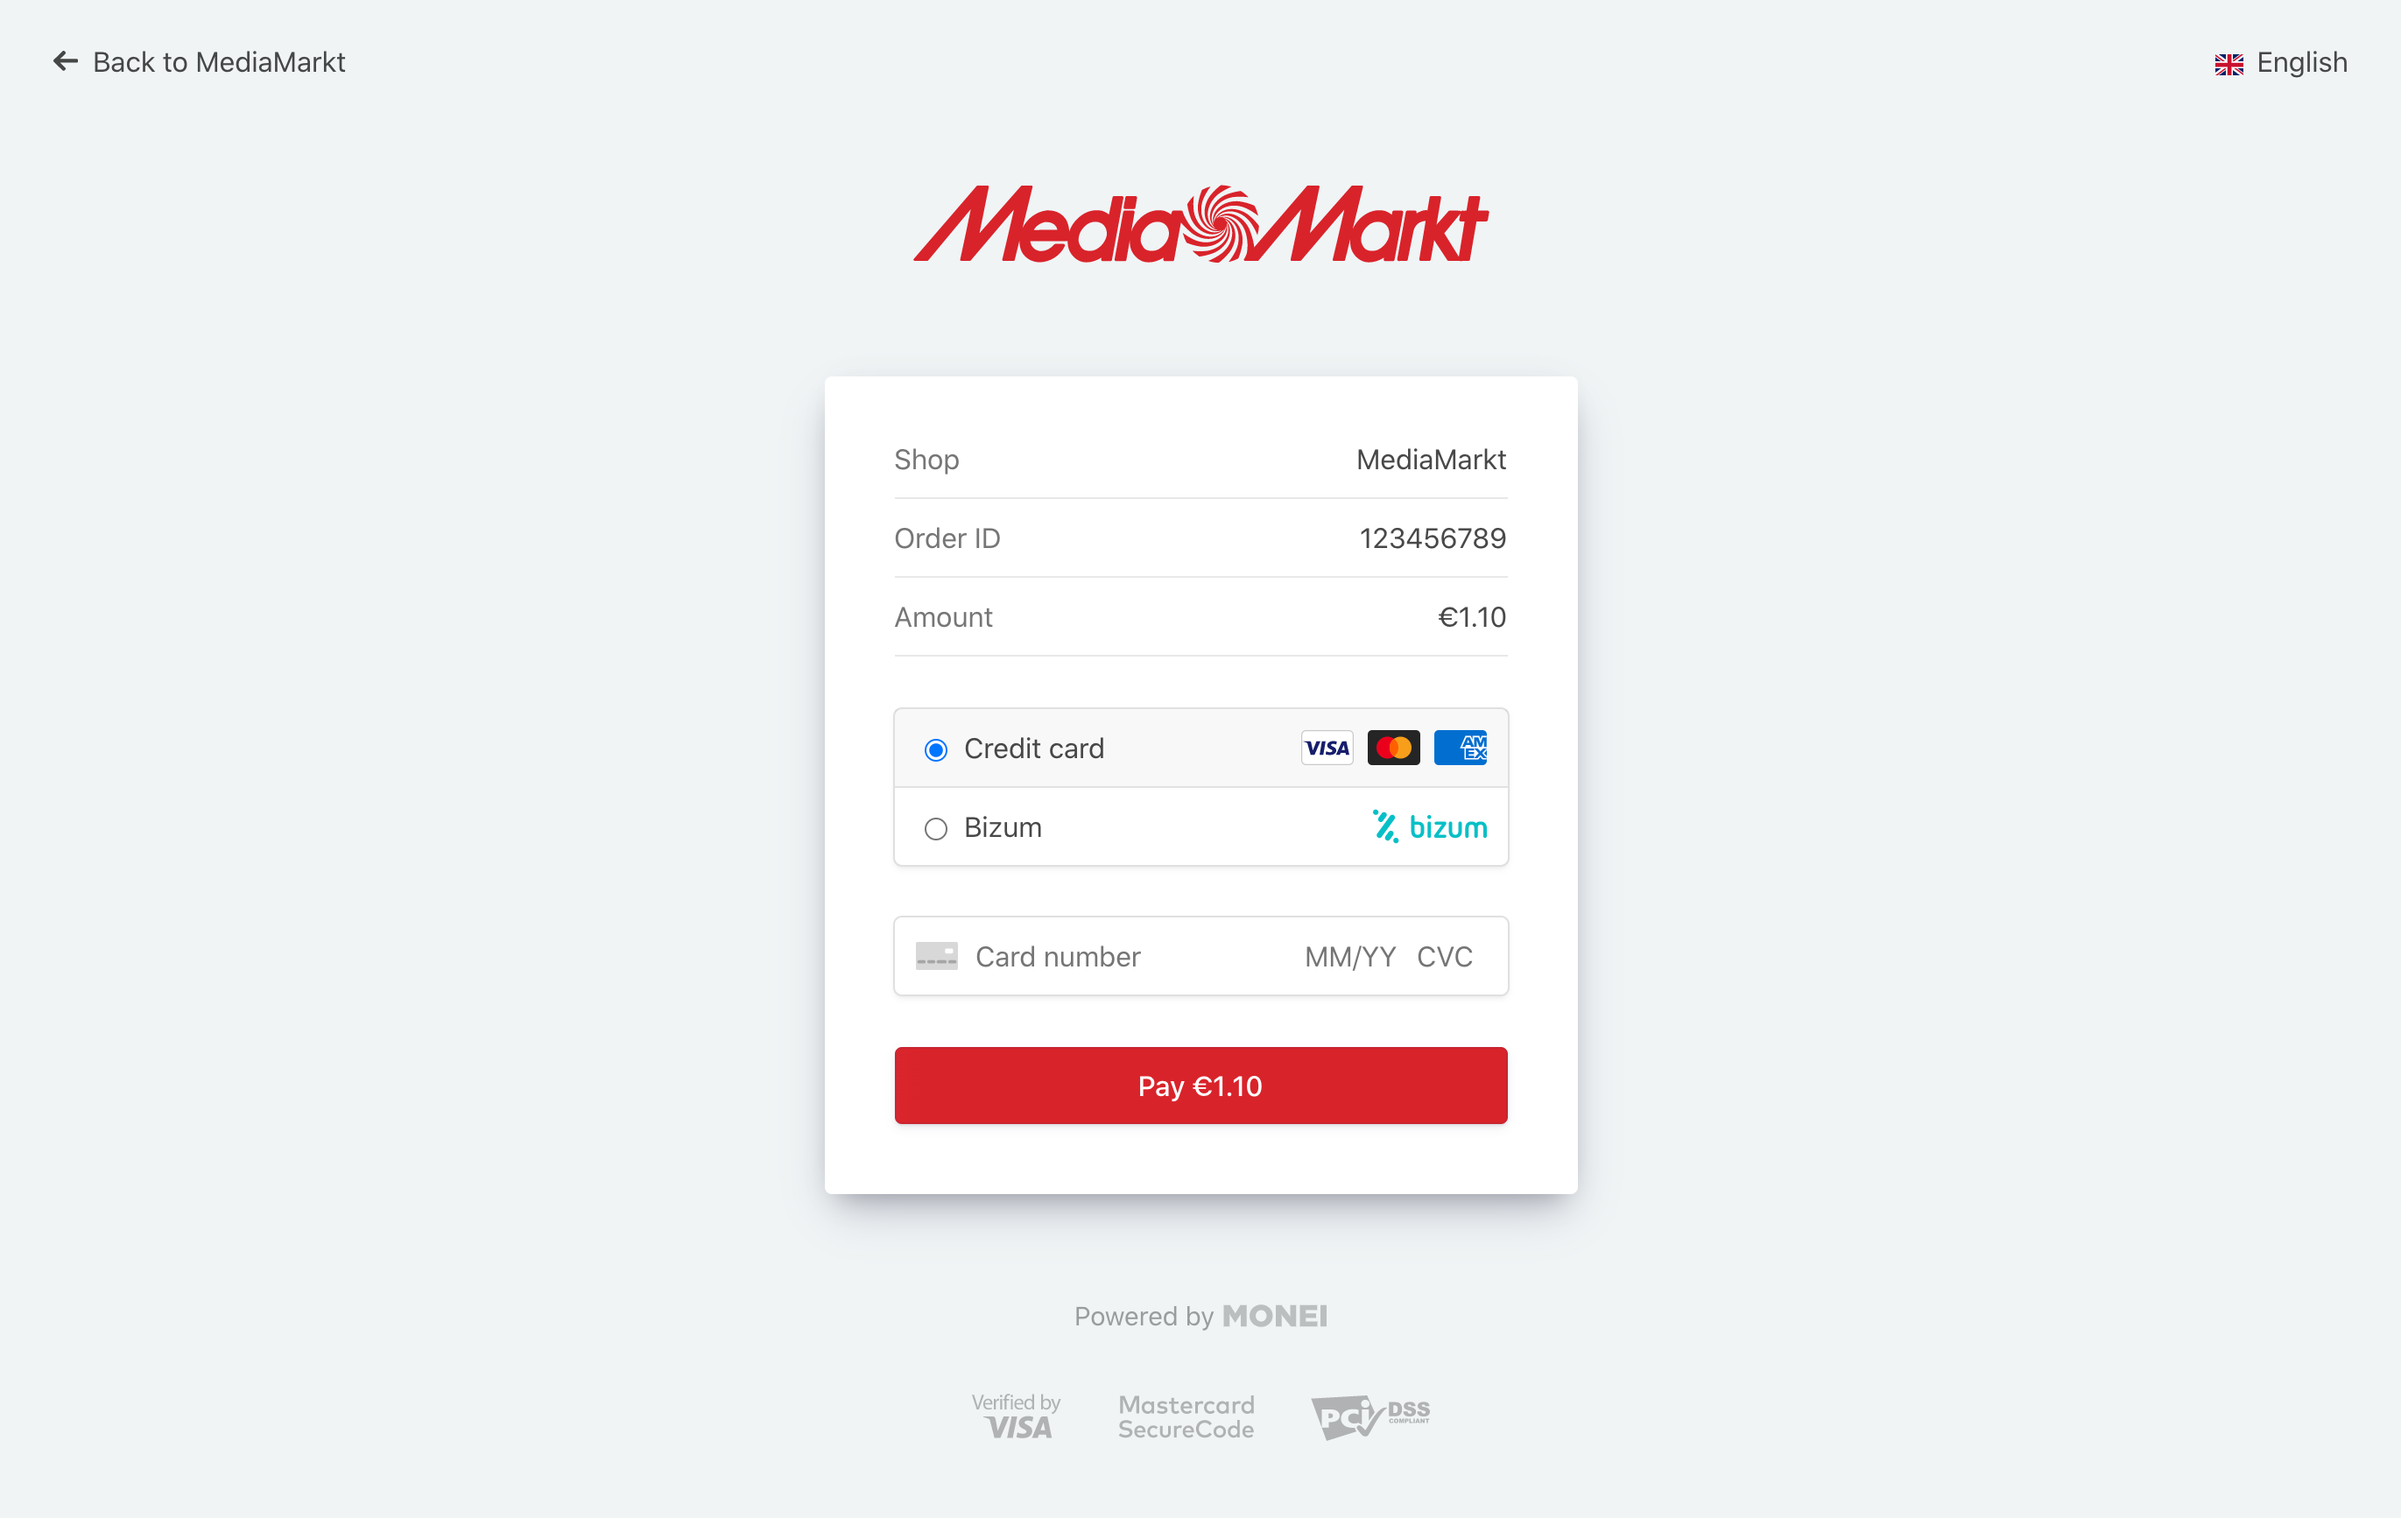
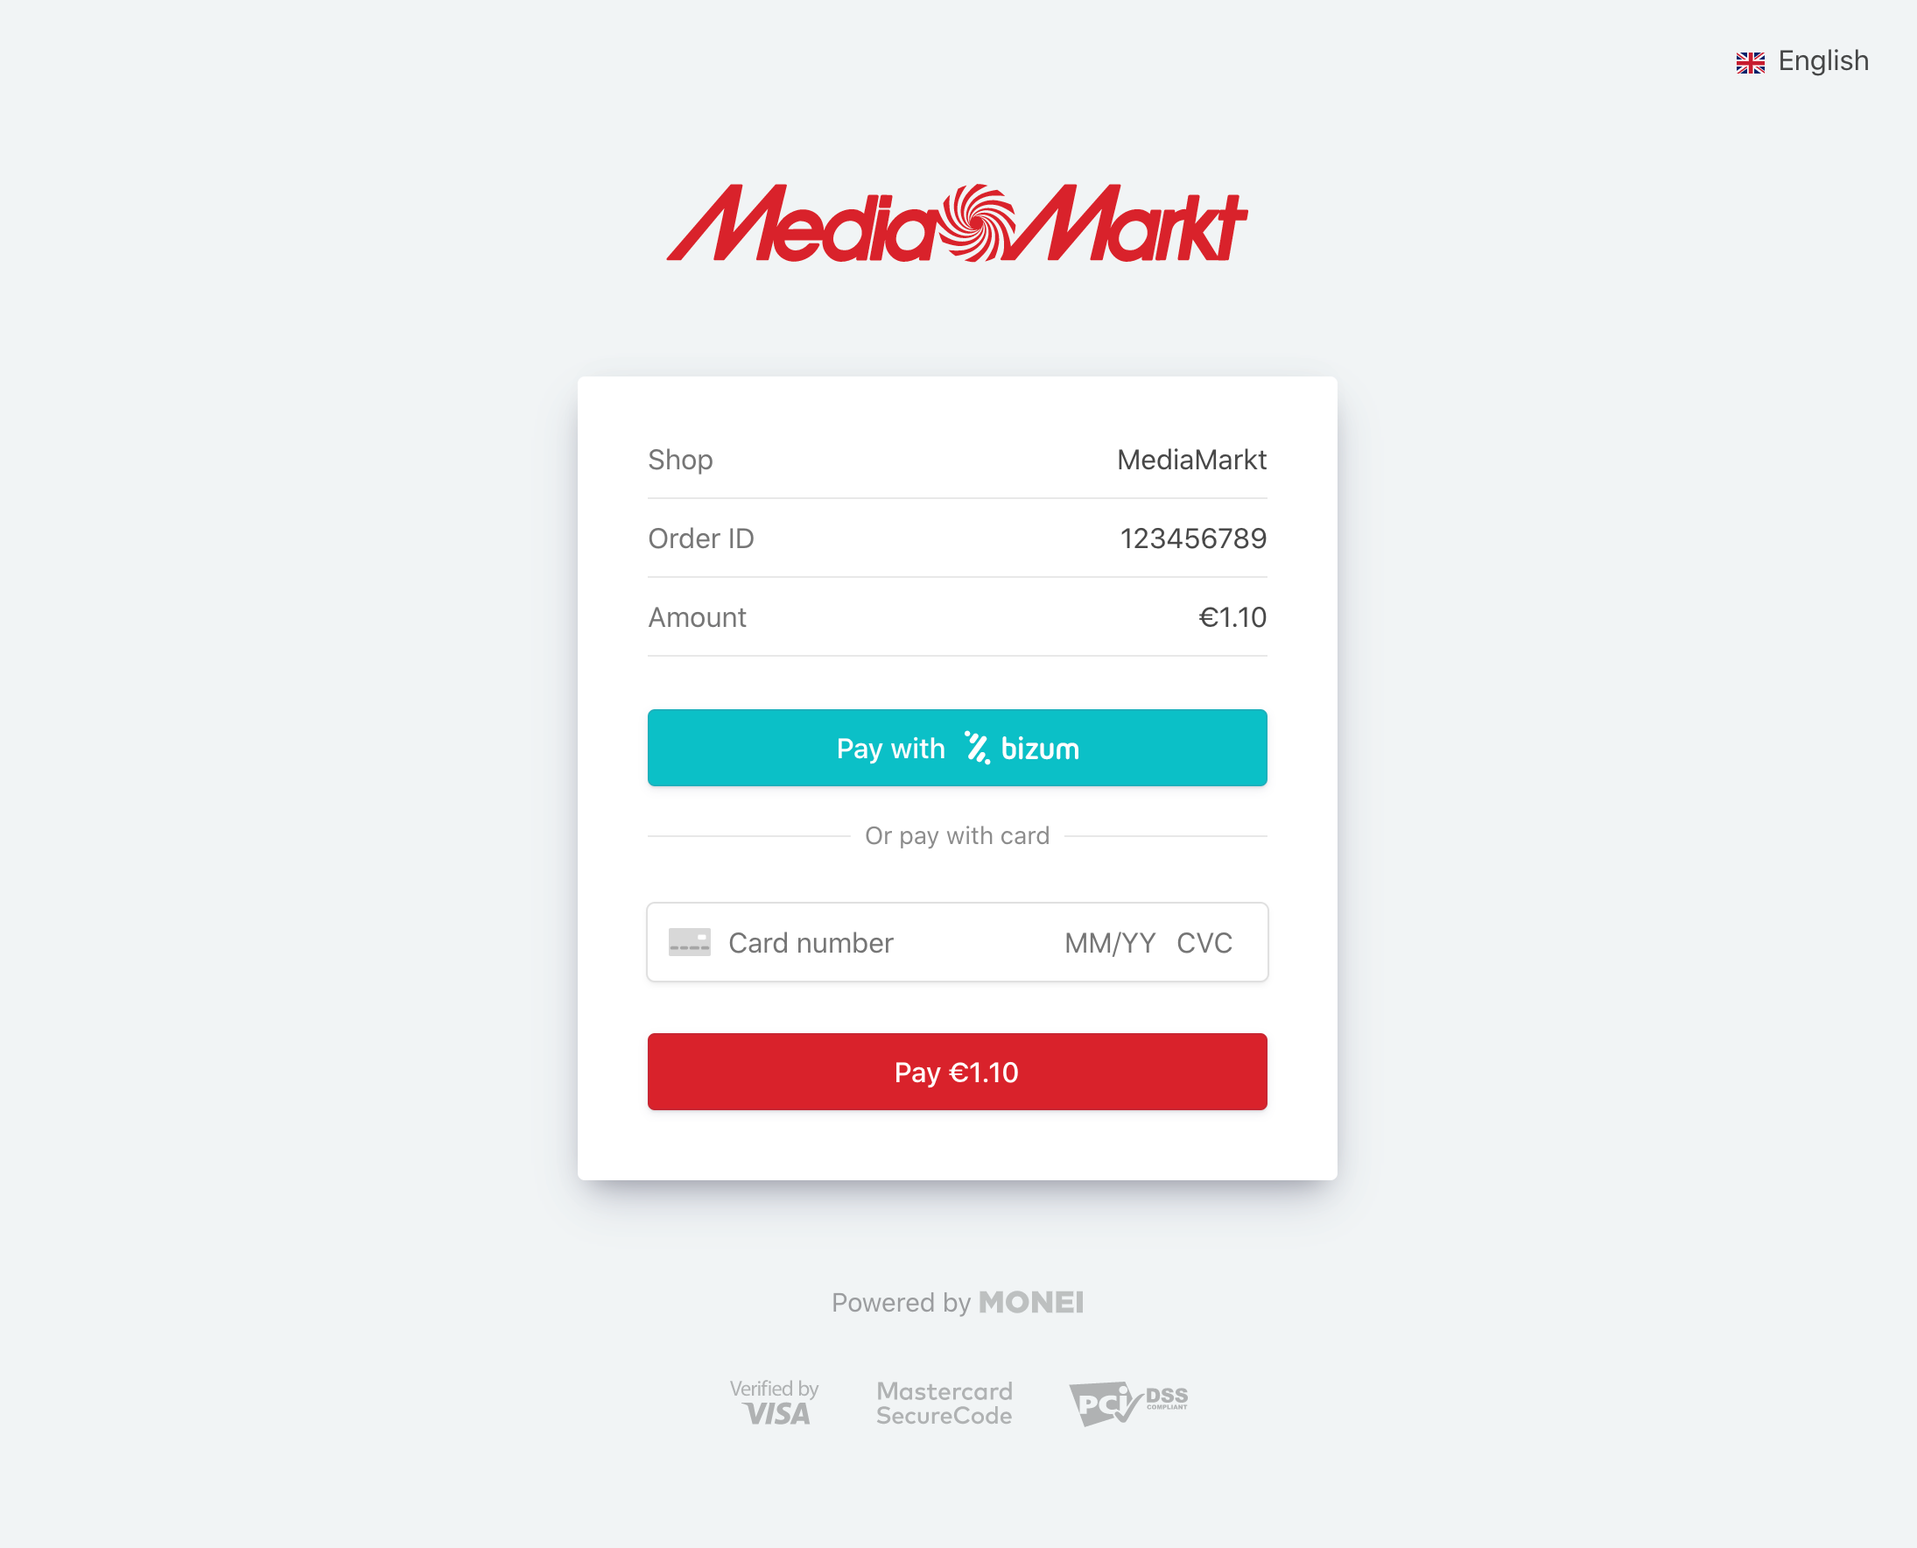
payment modal docs

diff --git a/sidebars.js b/sidebars.js
@@ -4,6 +4,7 @@ module.exports = {
     {
       Integrations: [
         'use-prebuilt-payment-page',
+        'use-payment-modal',
         'accept-card-payment',
         'shopify-integration',
         'woocommerce-integration',
